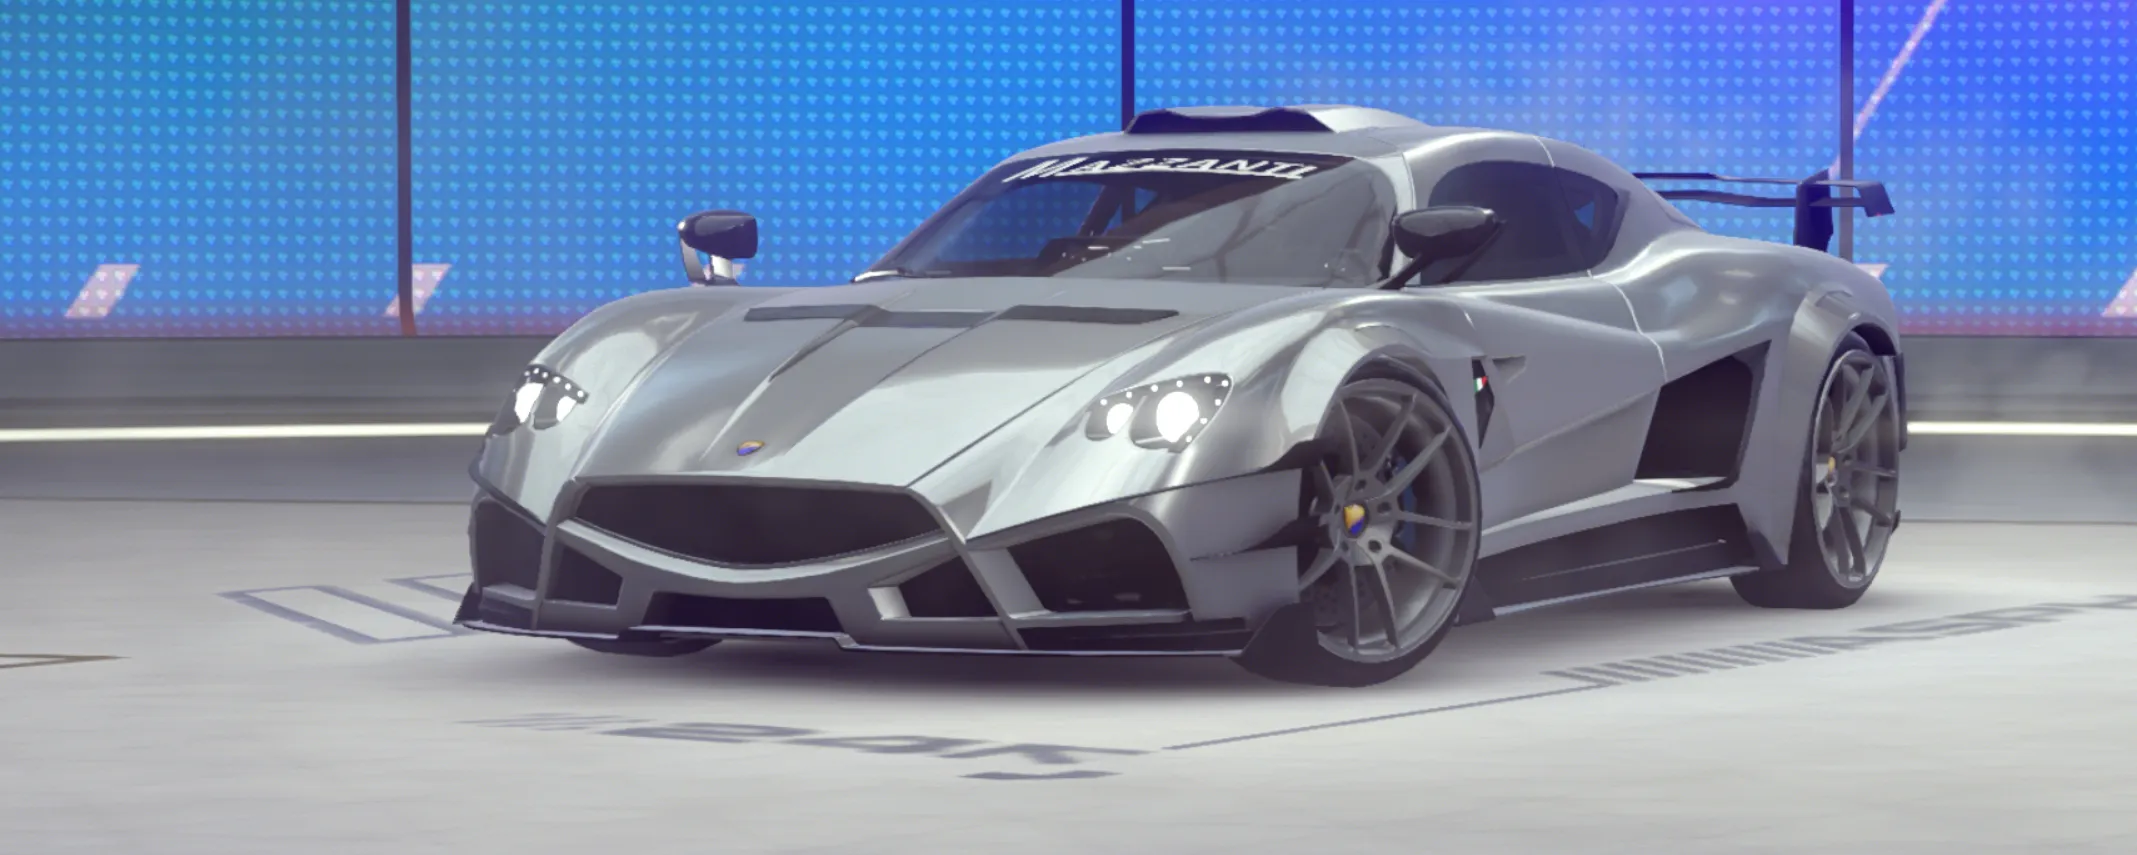
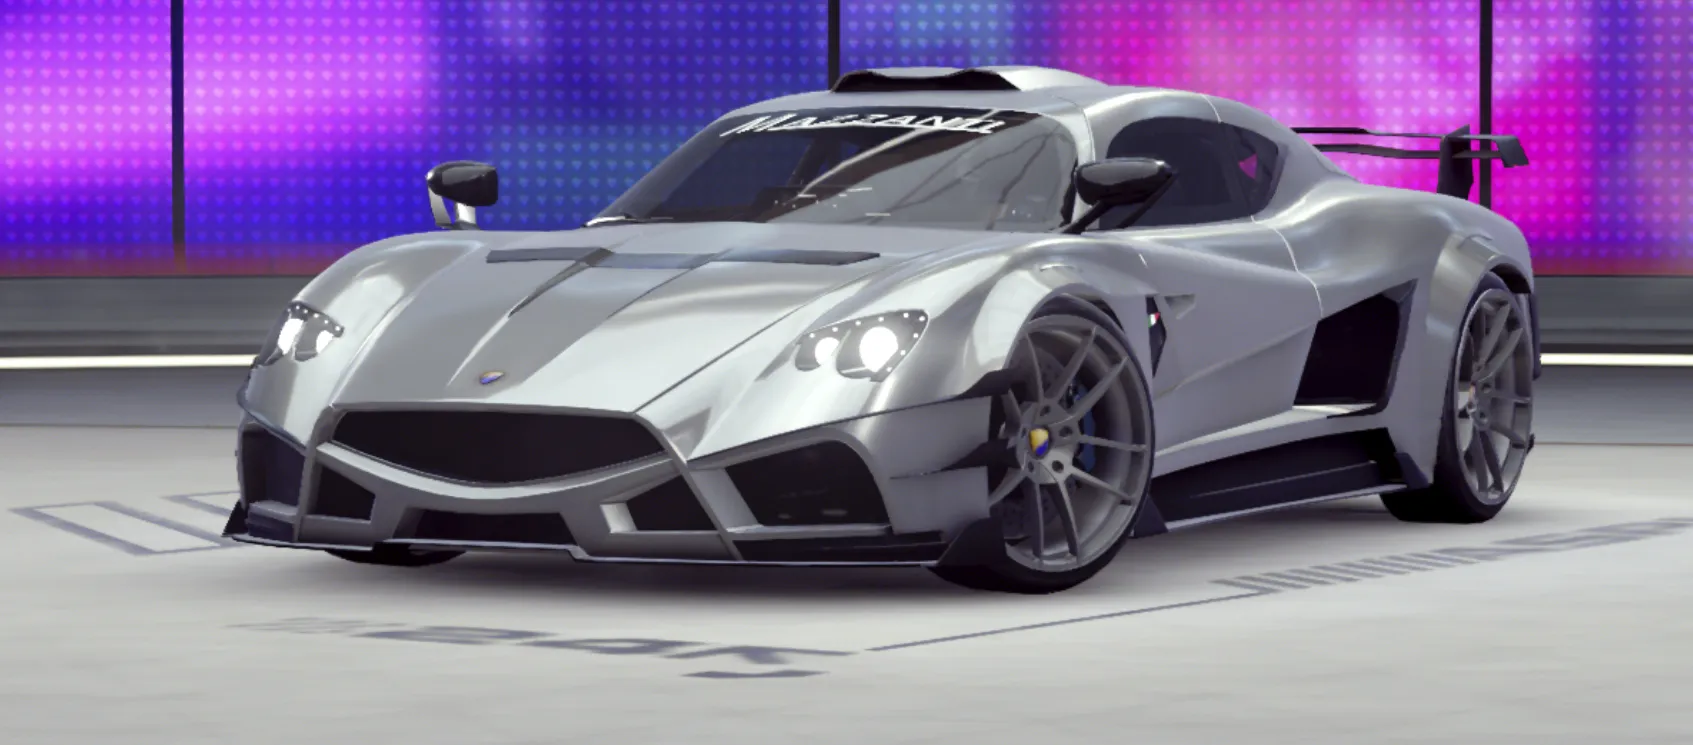
updated several cars and one script

diff --git a/src/scripts/DatabaseImports/Cars/seedKeyOrder.ts b/src/scripts/DatabaseImports/Cars/seedKeyOrder.ts
@@ -12,19 +12,9 @@ export const SEED_CAR_KEY_ORDER = [
   'stars',
   'keyCar',
   'country',
-
   'epics',
   'obtainableVia',
-
-  'stock',
-  'gold',
-  'maxStar',
-  'stages',
-
-  'added',
-  'addedWith',
   'addedDate',
-
   'blueprints1Star',
   'blueprints2Star',
   'blueprints3Star',